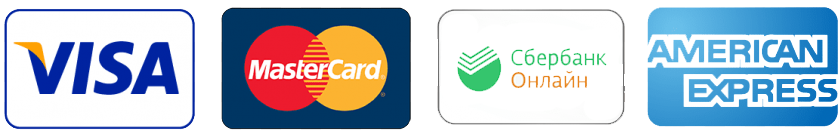
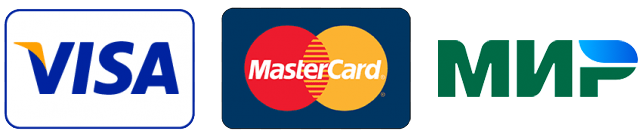
Add text about MIR payment system

diff --git a/pages/checkout.tsx b/pages/checkout.tsx
@@ -505,13 +505,17 @@ const CheckoutPage = (): JSX.Element => {
                 />
               </FormControl>
 
-              <div className="leading-none">
+              <div className="leading-none w-full sm:w-1/2 flex flex-col items-center">
                 <p className="mb-2">Мы принимаем платежи с карт:</p>
                 <img
-                  alt="Visa, Mastercard, Сбербан Онлайн, American Express"
+                  alt="Visa, Mastercard, МИР"
                   src="/images/cards.png"
                   style={{ width: '300px' }}
                 />
+                <p className="text-red-900 leading-5 text-center">
+                  Оплата картами российских банков доступна только с помощью
+                  платежной системы МИР
+                </p>
               </div>
             </div>
           </Paper>

diff --git a/pages/delivery.tsx b/pages/delivery.tsx
@@ -58,7 +58,11 @@ const UsagePage = (): JSX.Element => {
             Заказ можно оплатить банковской картой онлайн через платежную
             систему PAYBOX
           </p>
-          <p>К оплате принимаются карты VISA, MasterCard, American Express</p>
+          <p>К оплате принимаются карты VISA, MasterCard, МИР</p>
+          <p className="text-red-900">
+            Оплата картами российских банков доступна только с помощью платежной
+            системы МИР
+          </p>
         </div>
       </div>
     </Layout>
